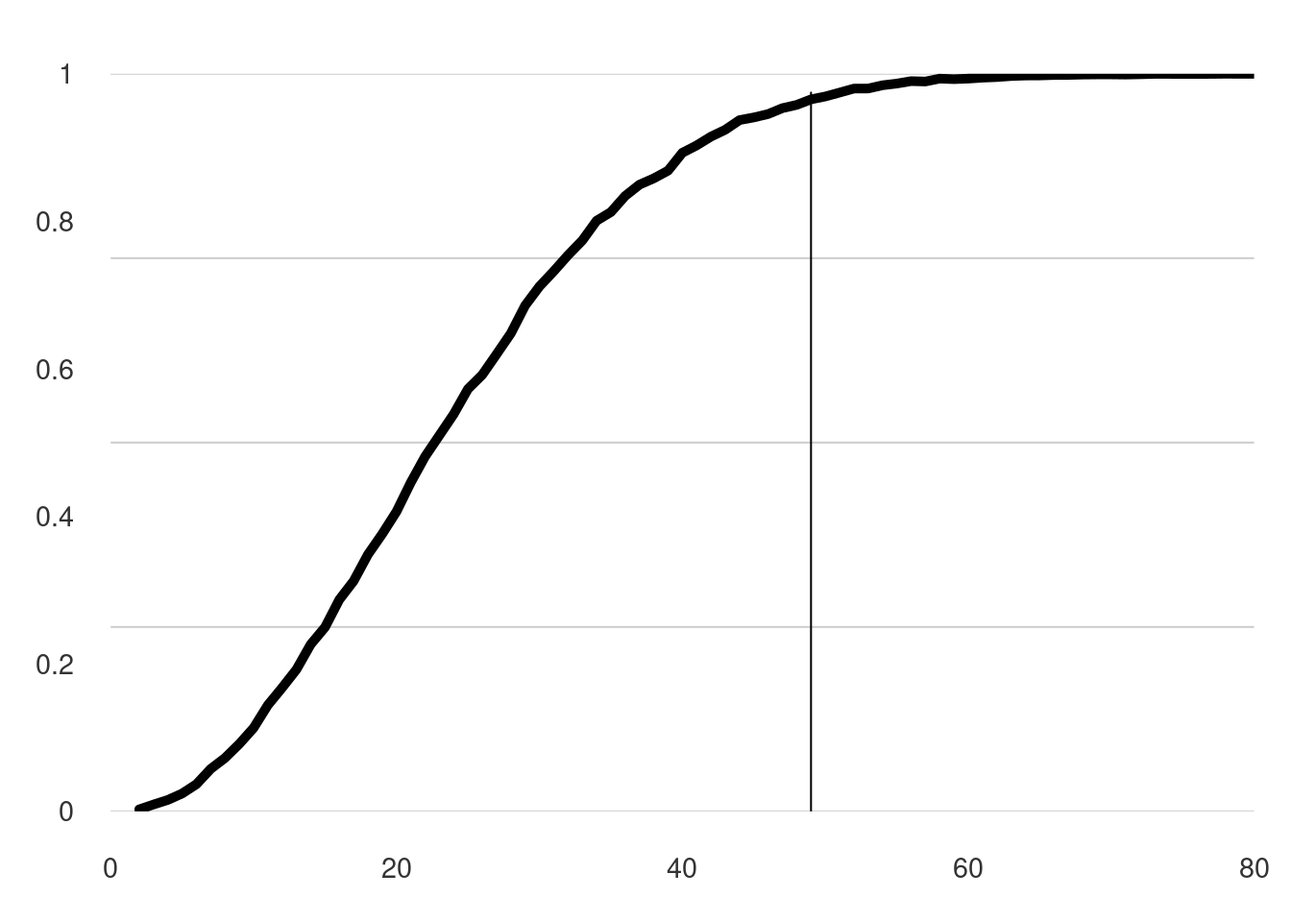
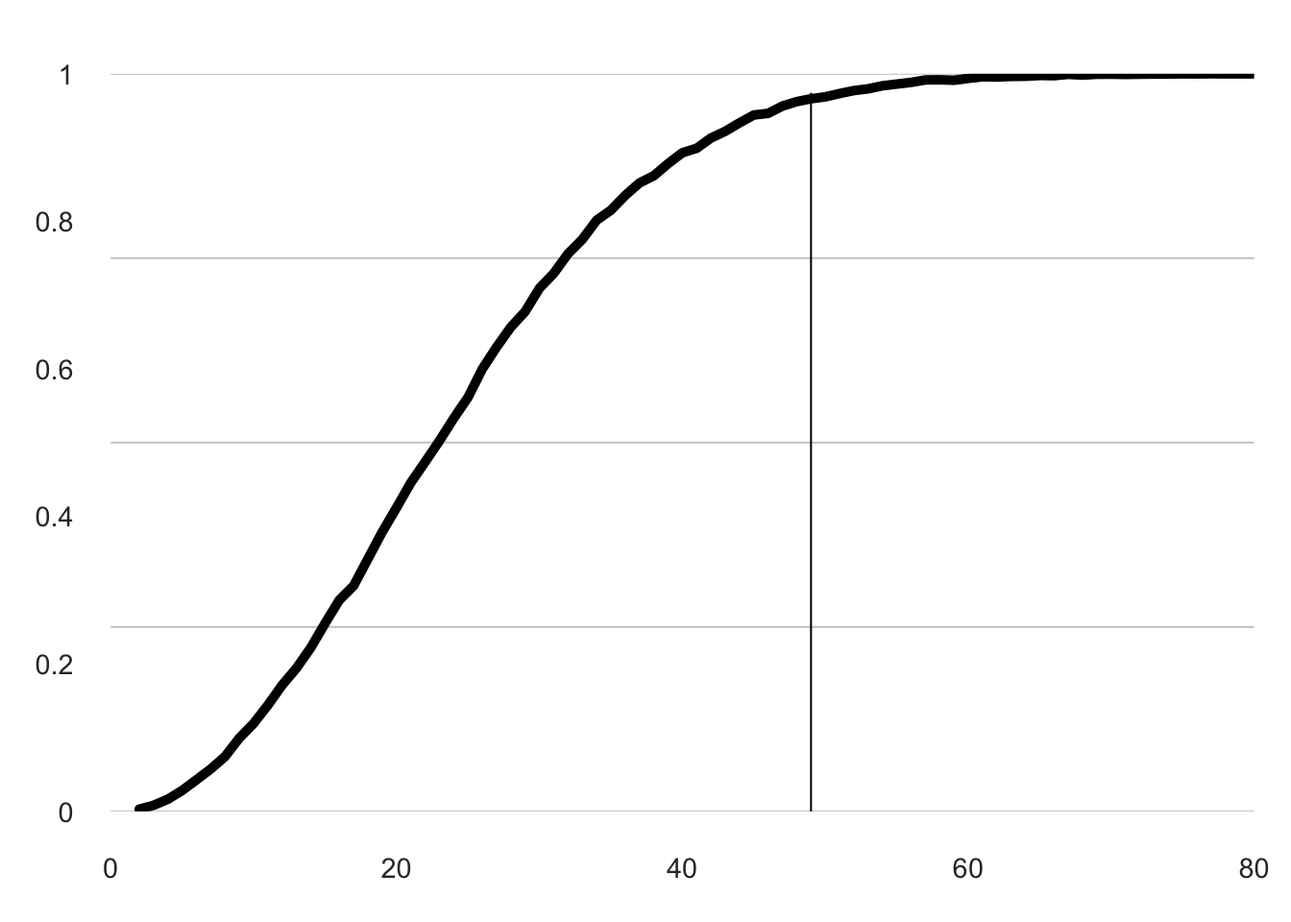
Built site for gh-pages

diff --git a/01_fundamentals/stat_foundations.html b/01_fundamentals/stat_foundations.html
@@ -430,34 +430,9 @@ A word of encouragement
 <p>How far you go back into the abstract foundations? For practical intents and purposes, you won’t need measure theory and proof-based mathematical analysis.</p>
 <p>I find those interesting for their own sake and understanding the foundations of higher-level tools we use. However, I can’t argue it’s an efficient use of your time.</p>
 </div></div><p>The most technical, heavy, and mathematical part is about estimators and their properties, but it is necessary both for hypothesis testing and machine learning. To make it more accessible and intuitive, we will use simulation and visualization during the labs to get an understanding and intuition on how estimators behave. We wrap up the lecture by looking at the statistical process in firms and put it in contrast with the process for ML, predictive systems. Last, but not least, there is one more cautionary tale about multiple testing – which will be our gateway into truly modern statistics.</p>
-<div class="callout-tip callout callout-style-default callout-captioned page-columns page-full">
-<div class="callout-header d-flex align-content-center">
-<div class="callout-icon-container">
-<i class="callout-icon"></i>
-</div>
-<div class="callout-caption-container flex-fill">
-Complementary resources if you feel like starting over
-</div>
-</div>
-<div class="callout-body-container callout-body page-columns page-full">
-<ul>
-<li>Realize that lots of common statistical tests are particular versions of linear models <a href="#fn2" class="footnote-ref" id="fnref2" role="doc-noteref"><sup>2</sup></a>. It takes a few hours to go through the theory and the code in the referenced book.</li>
-<li>Here’s the approach taken by <a href="#fn3" class="footnote-ref" id="fnref3" role="doc-noteref"><sup>3</sup></a>, which integrates data analysis and simulation in learning of statistics.</li>
-<li>Upgrade your statistical thinking for the 21st century challenges and be aware of the pitfalls and problems in the field. A good reference is <a href="#fn4" class="footnote-ref" id="fnref4" role="doc-noteref"><sup>4</sup></a>, which takes multiple perspectives (frequentist, bayesian, causal inference), while going through the workhorse models and methods.</li>
-<li>Be comfortable with exploring, wrangling, visualizing and analyzing data in R or/and Python, get familiar with reproducible research best practices. A good starting point is <a href="#fn5" class="footnote-ref" id="fnref5" role="doc-noteref"><sup>5</sup></a>, which is a course in collaboration with the RStudio team.</li>
-</ul>
-<div class="no-row-height column-margin column-container"><li id="fn2"><p><sup>2</sup>&nbsp;Doogue - <a href="https://steverxd.github.io/Stat_tests/">Common statistical tests are linear models</a></p></li><li id="fn3"><p><sup>3</sup>&nbsp;Speegle, Clair - <a href="https://mathstat.slu.edu/~speegle/_book/preface.html">Probability, Statistics, and Data: A fresh approach using R</a></p></li><li id="fn4"><p><sup>4</sup>&nbsp;Poldrack - <a href="https://statsthinking21.github.io/statsthinking21-core-site/">Statistical Thinking for the 21st Century</a> has two companion books, one with R and another in Python</p></li><li id="fn5"><p><sup>5</sup>&nbsp;Bryan - <a href="https://stat545.com/">STAT 545</a> It is also notable for its focus on teaching using modern R packages, Git and GitHub, its extensive sharing of teaching materials openly online, and its strong emphasis on practical data cleaning, exploration, and visualization skills, rather than algorithms and theory.</p></li></div><p>There are a gazillion books, courses on statistics, which basically do/teach the same thing. For reference and your curiosity, I curated a few which stand out with the right balance of data, code, simulation, theoretical rigor and real-world applications:</p>
-<ul>
-<li>Cetinkaya-Runde, Hardin - <a href="https://openintro-ims.netlify.app/index.html">Introduction to Modern Statistics</a> goes through all the fundamentals in a clear, concrete, extensive way, with code!</li>
-<li>Crump - <a href="https://www.crumplab.com/statistics/">Answering questions with data</a> – introductory statistics for Psychology Students has an interesting approach, focused on the challenges of Psychology</li>
-<li>Thulin - <a href="http://www.modernstatisticswithr.com/">Modern Statistics with R</a> goes through the whole process, with R, with additional topics, normally not present in a statistics course</li>
-<li>Holmes, Huber - <a href="https://www.huber.embl.de/msmb/index.html">Modern Statistics for Modern Biology</a> is for biologists, but we can see how central to the field are multidimensional methods, clustering and high-performance computing, working with big and messy data</li>
-</ul>
-</div>
-</div>
 <section id="the-garden-of-forking-paths" class="level2 page-columns page-full">
 <h2 class="anchored" data-anchor-id="the-garden-of-forking-paths">The garden of forking paths</h2>
-<div class="page-columns page-full"><p>As a warm-up, try working out through the following problem, sometimes called “The Birthday Paradox”.<a href="#fn6" class="footnote-ref" id="fnref6" role="doc-noteref"><sup>6</sup></a> If outcome space, complementarity, <em>sampling with replacement</em>, <em>pigenhole principle</em> or the simulation code you’re seeing seem puzzling, you might benefit from a refresher on probability theory. If you haven’t seen this problem before, you will probably find the results surprising.</p><div class="no-row-height column-margin column-container"><li id="fn6"><p><sup>6</sup>&nbsp;First, an analytical solution on paper, then simulate it in R or Python to check your answer.</p></li></div></div>
+<div class="page-columns page-full"><p>As a warm-up, try working out through the following problem, sometimes called “The Birthday Paradox”.<a href="#fn2" class="footnote-ref" id="fnref2" role="doc-noteref"><sup>2</sup></a> If outcome space, complementarity, <em>sampling with replacement</em>, <em>pigenhole principle</em> or the simulation code you’re seeing seem puzzling, you might benefit from a refresher on probability theory. If you haven’t seen this problem before, you will probably find the results surprising.</p><div class="no-row-height column-margin column-container"><li id="fn2"><p><sup>2</sup>&nbsp;First, an analytical solution on paper, then simulate it in R or Python to check your answer.</p></li></div></div>
 <div class="callout-note callout callout-style-default callout-captioned">
 <div class="callout-header d-flex align-content-center">
 <div class="callout-icon-container">
@@ -470,7 +445,7 @@ The Birthday Problem
 <div class="callout-body-container callout-body">
 <p>What is the probability at least two people have the same birthday, in a room of <span class="math inline">\(n=25\)</span> people? Assuming independence, for example no twins, every day is equally likely and ignoring the problem of 29th February. Can you generalize it to an arbitrary <span class="math inline">\(n\)</span>?</p>
 <p>For most practical problems, simulation is an extremely important skill. We might start with it to quickly get an answer, however, for simpler problems, the process of working out the solution analytically sheds light on its structure and easily generalizes to other applications. This simulation indeed, converges to the true results, but it takes a lot of computation, so it might not work when the code needs to run really fast!</p>
-<div class="cell" data-hash="stat_foundations_cache/html/unnamed-chunk-2_b2e41f9216394932bea3dc39abd913a6">
+<div class="cell" data-hash="stat_foundations_cache/html/unnamed-chunk-4_581a09b83394d0719ece659ea8d16001">
 <div class="sourceCode cell-code" id="cb1"><pre class="sourceCode r code-with-copy"><code class="sourceCode r"><span id="cb1-1"><a href="#cb1-1" aria-hidden="true" tabindex="-1"></a>nr_people <span class="ot">&lt;-</span> <span class="dv">25</span> </span>
 <span id="cb1-2"><a href="#cb1-2" aria-hidden="true" tabindex="-1"></a>simulate_birthdays <span class="ot">&lt;-</span> <span class="cf">function</span>(nr_people, <span class="at">nr_sim =</span> <span class="dv">10000</span>) {</span>
 <span id="cb1-3"><a href="#cb1-3" aria-hidden="true" tabindex="-1"></a>    birthday_events <span class="ot">&lt;-</span> <span class="fu">replicate</span>(<span class="at">n =</span> nr_sim, {</span>
@@ -484,8 +459,8 @@ The Birthday Problem
 </div>
 <!-- <details> <summary>Show the answer</summary> -->
 <!-- </details> -->
-<p>So, the probability that a room of 25 people has two people with the same birth date is <span class="math inline">\(\approx\)</span> 0.577. For 50 people, it’s around 0.9683</p>
-<div class="cell" data-hash="stat_foundations_cache/html/unnamed-chunk-3_1d7df490b35e7402bfb7fe91b4c45dc6">
+<p>So, the probability that a room of 25 people has two people with the same birth date is <span class="math inline">\(\approx\)</span> 0.5655. For 50 people, it’s around 0.9695</p>
+<div class="cell" data-hash="stat_foundations_cache/html/unnamed-chunk-6_6fb70620685be6c0999b14947d82dd0f">
 <details>
 <summary>Show the visualization code</summary>
 <div class="sourceCode cell-code" id="cb2"><pre class="sourceCode r code-with-copy"><code class="sourceCode r"><span id="cb2-1"><a href="#cb2-1" aria-hidden="true" tabindex="-1"></a><span class="fu">par</span>(<span class="at">mar =</span> <span class="fu">c</span>(<span class="dv">3</span>, <span class="dv">3</span>, <span class="dv">2</span>, <span class="dv">1</span>), <span class="co"># Dist' from plot to side of page</span></span>
@@ -518,7 +493,7 @@ The Birthday Problem
 <div class="no-row-height column-margin column-container"><div class="cell-output-display callout-margin-content">
 <div class="quarto-figure quarto-figure-center">
 <figure class="figure">
-<p><img src="stat_foundations_files/figure-html/unnamed-chunk-3-1.png" class="img-fluid figure-img" width="672"></p>
+<p><img src="stat_foundations_files/figure-html/unnamed-chunk-6-1.png" class="img-fluid figure-img" width="672"></p>
 <p></p><figcaption class="figure-caption">Probability of matching birthdays as a function of the number of people</figcaption><p></p>
 </figure>
 </div>
@@ -529,7 +504,7 @@ The Birthday Problem
 </section>
 <section id="the-probability-triple" class="level2 page-columns page-full">
 <h2 class="anchored" data-anchor-id="the-probability-triple">The probability triple</h2>
-<div class="page-columns page-full"><p>In the <a href="../01_fundamentals/background.html#why-did-you-study-all-of-that">previous lecture</a>, I mentioned why did we study probability theory. However, there is one more useful metaphor: remember how important is logic in mathematics, computer science, and philosophy; it’s one of the prerequisites in each of those, an essential tool for reasoning. Then, probability theory is the <strong>logic of uncertainty</strong>, a formal language. <a href="#fn7" class="footnote-ref" id="fnref7" role="doc-noteref"><sup>7</sup></a></p><div class="no-row-height column-margin column-container"><li id="fn7"><p><sup>7</sup>&nbsp;If you studied fuzzy set theory, you might have a case for it being the candidate, however, it fell out of favor in practice – so I would suggest to focus on probability and Bayesian reasoning.</p></li></div></div>
+<div class="page-columns page-full"><p>In the <a href="../01_fundamentals/background.html#why-did-you-study-all-of-that">previous lecture</a>, I mentioned why did we study probability theory. However, there is one more useful metaphor: remember how important is logic in mathematics, computer science, and philosophy; it’s one of the prerequisites in each of those, an essential tool for reasoning. Then, probability theory is the <strong>logic of uncertainty</strong>, a formal language. <a href="#fn3" class="footnote-ref" id="fnref3" role="doc-noteref"><sup>3</sup></a></p><div class="no-row-height column-margin column-container"><li id="fn3"><p><sup>3</sup>&nbsp;If you studied fuzzy set theory, you might have a case for it being the candidate, however, it fell out of favor in practice – so I would suggest to focus on probability and Bayesian reasoning.</p></li></div></div>
 <p>Often, probability and mathematical statistics are bundled together, as they make perfect sense in sequence, but they have different objectives in mind. Probability theory is concerned with the construction of probability triple <span class="math inline">\((\Omega, \mathcal{F}, \mathbb{P})\)</span>.</p>
 <p>That is the foundation for developing useful tools like random variables and probability/cumulative density functions. Then, extending those to joint, conditional probabilities and multidimensional cases, introducing the machinery to operate all of that: like expectation, variance, moment-generating functions, conditioning, marginalization, Bayes theorem. This leads to the laws of large numbers, properties of distributions and their transformations.</p>
 <div class="page-columns page-full"><p></p><div class="no-row-height column-margin column-container"><span class=""><strong>We use all of those results</strong> to model relationships between observed and latent variables in business processes and phenomena. It’s a building block for answering the “simple” question: does X cause Y?</span></div></div>
@@ -559,7 +534,7 @@ P(X=k) = \frac{e^{−\lambda} \lambda^k}{k!}; \space k=0, 1, ...
 </div>
 <p>Other tools are as prevalent and useful: Bayes rule, DAGs (directed acyclic graphs of random variables), the exponential family, laws of large numbers and the cental limit theorem. It holds both in applications and statistics itself.</p>
 <p>In probability theory, we’re still in a mathematical world trying to capture the essence of the real world, but ultimately, we need statistical inference to estimate those parameters from data. Before we get into it in more detail: mathematically, computationally and in terms of business cases, we have to define that foundation – the probability triple.</p>
-<div class="page-columns page-full"><p>To make the following more clear, let’s start with an experiment where we show a customer ten clothing items (a collection), and they have to pick the one they like best. If we repeated it with many customers, preferably representative for the population of interest,<a href="#fn8" class="footnote-ref" id="fnref8" role="doc-noteref"><sup>8</sup></a> a pattern would emerge. This is an example of a discrete Outcome Set (or universal set, of all possible results). Alternatively, think of pebbles in an urn, where each one represents an outcome.</p><div class="no-row-height column-margin column-container"><li id="fn8"><p><sup>8</sup>&nbsp;You might intuitively know what a population is, but there are surprisingly many pitfalls, so we’ll investigate that notion with lots of care.</p></li></div></div>
+<div class="page-columns page-full"><p>To make the following more clear, let’s start with an experiment where we show a customer ten clothing items (a collection), and they have to pick the one they like best. If we repeated it with many customers, preferably representative for the population of interest,<a href="#fn4" class="footnote-ref" id="fnref4" role="doc-noteref"><sup>4</sup></a> a pattern would emerge. This is an example of a discrete Outcome Set (or universal set, of all possible results). Alternatively, think of pebbles in an urn, where each one represents an outcome.</p><div class="no-row-height column-margin column-container"><li id="fn4"><p><sup>4</sup>&nbsp;You might intuitively know what a population is, but there are surprisingly many pitfalls, so we’ll investigate that notion with lots of care.</p></li></div></div>
 <p>As an academic aside, we have to thank Kolmogorov for putting probability into a rigorous, axiomatic framework based on set theory and making it open for mathematical enquiry with tools from mathematical analysis, which by that time were well-established. That is important, because we can’t work the same naive way with continuous measurements and phenomena, as we do with pebbles.</p>
 <ol type="1">
 <li>A <strong>random experiment</strong> (<span class="math inline">\(\mathscr{E}\)</span>) is a set of <em>conditions which are favorable for an event</em> in a given form. It is that real-world process of interest which we try to simplify, with the following properties:
@@ -567,7 +542,7 @@ P(X=k) = \frac{e^{−\lambda} \lambda^k}{k!}; \space k=0, 1, ...
 <li>Possible results and outcomes are known apriori and exhaustably. For example: a coin/dice toss, quantity sold, time in a subscription, a default on the credit, a choice between subscriptions.</li>
 <li>It’s never known which of the results of <span class="math inline">\(\mathscr{E}\)</span> will manifest or appear before we run the experiment, the “experiment” amounting to randomly picking that clothing item or a pebble from the urn.</li>
 <li>Despite that, <strong>there is a perceptible regularity</strong>, which can be eventually measured and quantified, that is, encoding the idea of a probabilistic “law” in the results. That regularity could be a result of the large scale of the phenomena, for example, many customers seeing a product on the shelf.</li>
-<li>Repeatability of the conditions in which the experiment runs, like the comparability and perservation of context. This is optional in the Bayesian perspective, where we’re not thinking in long-run frequency terms. <a href="#fn9" class="footnote-ref" id="fnref9" role="doc-noteref"><sup>9</sup></a></li>
+<li>Repeatability of the conditions in which the experiment runs, like the comparability and perservation of context. This is optional in the Bayesian perspective, where we’re not thinking in long-run frequency terms. <a href="#fn5" class="footnote-ref" id="fnref5" role="doc-noteref"><sup>5</sup></a></li>
 </ul></li>
 <li><strong>Elementary event</strong> as an auxiliaty construction: one of the possible results of <span class="math inline">\(\mathscr{E}\)</span>, usually denoted by <span class="math inline">\(\omega_i \in \Omega\)</span>.</li>
 <li><strong>Universal set</strong> <span class="math inline">\(\Omega = \{ \omega_1, \omega_2, \dots \}\)</span> is also called (Outcome/ State/ Selection space). It suggests the idea of complementarity and stochasticity: we don’t know which <span class="math inline">\(\omega_i\)</span> will manifest, thus is a key object for a further formalization of probability measures.</li>
@@ -575,7 +550,7 @@ P(X=k) = \frac{e^{−\lambda} \lambda^k}{k!}; \space k=0, 1, ...
 <li>The <strong>event space</strong> <span class="math inline">\(\mathcal{F}\)</span> is a sigma-algebra, should be defined on sets of subsets of <span class="math inline">\(\Omega\)</span> and this is where measure theory shines. For technical reasons, we usually can’t define a probability measure on all sets of subsets. On an intuitive note, we define the probability measure on sigma-algebras because if those conditions did not hold, the measure wouldn’t make sense, unions of events would step out of the bounds of event space.</li>
 <li><strong>Probability as an extension of the measure</strong>: chance of events realizing. Note that the perceptible regularity can be thought as the ability to assign a probability (number between 0 and 1) to elementary events: <span class="math inline">\(\mathbb{P}(\omega_i)\)</span>. This is why additivity properties are key, as we care about random events, not only elementary events.</li>
 </ol>
-<div class="no-row-height column-margin column-container"><li id="fn9"><div class="quarto-figure quarto-figure-center"><sup>9</sup>&nbsp;
+<div class="no-row-height column-margin column-container"><li id="fn5"><div class="quarto-figure quarto-figure-center"><sup>5</sup>&nbsp;
 <figure class="figure">
 <p><img src="img/coin-flips-lr.png" class="img-fluid figure-img" style="width:90.0%"></p>
 <p></p><figcaption class="figure-caption"><em>Source: <a href="https://bookdown.org/kevin_davisross/probsim-book/interpretations.html">Ross</a></em> This is the view of probability as a long-run frequency of events occuring, for example, flipping a coin</figcaption><p></p>
@@ -645,7 +620,7 @@ Measure theory rabbit hole: Why not all subsets?
 \end{equation}\]</span></p>
 <p>He then challenges the readers to come up with the expected value <span class="math inline">\(\mathbb{E}[Z^2]\)</span> and asks on what is it defined? It is indeed a hard question.</p>
 </div></div><p>We stumble upon different interpretations of probability (frequentists vs bayesians), when trying to clarify that “perceptible regularity”, despite the mathematics of probability theory being exactly the same. These are not “theorems” to prove, but rather axioms and philosophies often taken in practice as the starting point.</p>
-<div class="page-columns page-full"><p>The frequency theory defines the probability of an outcome as the limiting frequency with which that outcome appears in a long series of similar events. If our experiment or investigation is such that those relative frequencies converge, then we can prove the LLN and the CLT. Basically, that we should view probability and predictions based on historical data. <a href="#fn10" class="footnote-ref" id="fnref10" role="doc-noteref"><sup>10</sup></a></p><div class="no-row-height column-margin column-container"><li id="fn10"><p><sup>10</sup>&nbsp;<em>“To a frequentist, the probability of an event is intrinsic to that event’s nature and not something perceived, only discovered.”</em></p></li></div></div>
+<div class="page-columns page-full"><p>The frequency theory defines the probability of an outcome as the limiting frequency with which that outcome appears in a long series of similar events. If our experiment or investigation is such that those relative frequencies converge, then we can prove the LLN and the CLT. Basically, that we should view probability and predictions based on historical data. <a href="#fn6" class="footnote-ref" id="fnref6" role="doc-noteref"><sup>6</sup></a></p><div class="no-row-height column-margin column-container"><li id="fn6"><p><sup>6</sup>&nbsp;<em>“To a frequentist, the probability of an event is intrinsic to that event’s nature and not something perceived, only discovered.”</em></p></li></div></div>
 <p>Formally, we can represent this statement by Bernoulli’s theorem, which is a special case of Law of Large Numbers, where <span class="math inline">\(m_n\)</span> is the number of times an event <span class="math inline">\(A\)</span> occurs in <span class="math inline">\(n\)</span> trials.</p>
 <p><span class="math display">\[
 \lim_{n \to \infty} \frac{m_n}{n} = p
@@ -742,7 +717,7 @@ $$
 The best way to see the problem here, is to draw the mapping and pick 3 thresholds for $r$. Then see if we can recover events in $\mathcal{F}$ by $X^{-1}(w)$.
 
 ::: -->
-<div class="page-columns page-full"><p>As a motivation of why do we have to understand all of this, when for most practical applications we can get by just fine with using the results and tools from probability, I will introduce two examples: one of compositional data analysis<a href="#fn11" class="footnote-ref" id="fnref11" role="doc-noteref"><sup>11</sup></a> and time series analysis. What I want to say, is that for more “exotic” applications, we might need to tweak that probability triple because of the nature of the problem, which has downstream consequences for all the statistical machinery we use in those applications.</p><div class="no-row-height column-margin column-container"><li id="fn11"><div class="quarto-figure quarto-figure-center"><sup>11</sup>&nbsp;
+<div class="page-columns page-full"><p>As a motivation of why do we have to understand all of this, when for most practical applications we can get by just fine with using the results and tools from probability, I will introduce two examples: one of compositional data analysis<a href="#fn7" class="footnote-ref" id="fnref7" role="doc-noteref"><sup>7</sup></a> and time series analysis. What I want to say, is that for more “exotic” applications, we might need to tweak that probability triple because of the nature of the problem, which has downstream consequences for all the statistical machinery we use in those applications.</p><div class="no-row-height column-margin column-container"><li id="fn7"><div class="quarto-figure quarto-figure-center"><sup>7</sup>&nbsp;
 <figure class="figure">
 <figure class="figure">
 <img src="img/composition.png" title="Simplex" class="img-fluid figure-img" style="width:90.0%">
@@ -766,7 +741,7 @@ The curious case of Compositional Data Analysis
 <p>Compositional data analysis solves those issues by defining a probability triple over the simplex (instead of <span class="math inline">\(\mathbb{R}^n\)</span>): <span class="math inline">\((\mathcal{S}^n, \mathcal{F}, \mathbb{P})\)</span>. This leads to a different definition of the event space <span class="math inline">\(\mathcal{F}\)</span>, which is also a sigma-algebra and a different definition of the probability measure <span class="math inline">\(\mathbb{P}\)</span>.</p>
 </div>
 </div>
-<div class="page-columns page-full"><p>Remember our exaple of <a href="../01_fundamentals/background.html#implicit-learning-intuition-and-bias">pigeon superstition</a> in the context of learning? It is not surprising to me that measure theory becomes important in Learning Theory,<a href="#fn12" class="footnote-ref" id="fnref12" role="doc-noteref"><sup>12</sup></a> which is exactly those carefully formulated principles that will prevent our automated learners to become supersitious.</p><div class="no-row-height column-margin column-container"><li id="fn12"><p><sup>12</sup>&nbsp;Even though most courses from which I studied don’t mention it explicitly (Yaser Abu-Mostafa, Shai Ben-David, Reza Shadmehr), according to Mikio’s Brown <a href="https://www.quora.com/Is-Measure-Theory-relevant-to-Machine-Learning/answer/Mikio-L-Braun?srid=KONR">answer</a> it’s essential in the idea of <strong>uniform convergence</strong> and its bounds, where <em>“you consider the probability of a supremum over an infinite set of functions, but out of the box measure theory only allows for constructions with countably infinite index sets”</em>.</p></li></div></div>
+<div class="page-columns page-full"><p>Remember our exaple of <a href="../01_fundamentals/background.html#implicit-learning-intuition-and-bias">pigeon superstition</a> in the context of learning? It is not surprising to me that measure theory becomes important in Learning Theory,<a href="#fn8" class="footnote-ref" id="fnref8" role="doc-noteref"><sup>8</sup></a> which is exactly those carefully formulated principles that will prevent our automated learners to become supersitious.</p><div class="no-row-height column-margin column-container"><li id="fn8"><p><sup>8</sup>&nbsp;Even though most courses from which I studied don’t mention it explicitly (Yaser Abu-Mostafa, Shai Ben-David, Reza Shadmehr), according to Mikio’s Brown <a href="https://www.quora.com/Is-Measure-Theory-relevant-to-Machine-Learning/answer/Mikio-L-Braun?srid=KONR">answer</a> it’s essential in the idea of <strong>uniform convergence</strong> and its bounds, where <em>“you consider the probability of a supremum over an infinite set of functions, but out of the box measure theory only allows for constructions with countably infinite index sets”</em>.</p></li></div></div>
 <p>For the next example, you don’t have to understand what Gaussian Processes are or are used for. However, later in the course, we will discuss nonparametric methods for hypothesis testing. Their usefulness comes from the fact that we make less distributional assumptions about our population, therefore getting more robust results, in contrast with choosing a wrong model or distribution.</p>
 <p>It’s not that these methods don’t have parameters, but the parametrization varies depending on how much data we have, which makes them very flexible in a wide variety of applications, where we just don’t know what is a reasonable distribution or parametric functional form for the relationship that we model.</p>
 <div class="callout-tip callout callout-style-default callout-captioned page-columns page-full">
@@ -780,7 +755,7 @@ Nonparametrics and Gaussian Processes
 </div>
 <div class="callout-body-container callout-body page-columns page-full">
 <!-- Stochastic Processes, Graphs and Trees -->
-<div class="page-columns page-full"><p>If we’re thinking about a regression from the nonparametric perspective: that is, over a set of abstract functions: <span class="math inline">\(f(x) \in \mathscr{C}^2:X \rightarrow \mathbb{R}\)</span>, <a href="#fn13" class="footnote-ref" id="fnref13" role="doc-noteref"><sup>13</sup></a> we might want to know how a draw of samples from an infinite set of continuous differentiable functions might look like.</p><div class="no-row-height column-margin column-container"><li id="fn13"><div class="quarto-figure quarto-figure-center"><sup>13</sup>&nbsp;
+<div class="page-columns page-full"><p>If we’re thinking about a regression from the nonparametric perspective: that is, over a set of abstract functions: <span class="math inline">\(f(x) \in \mathscr{C}^2:X \rightarrow \mathbb{R}\)</span>, <a href="#fn9" class="footnote-ref" id="fnref9" role="doc-noteref"><sup>9</sup></a> we might want to know how a draw of samples from an infinite set of continuous differentiable functions might look like.</p><div class="no-row-height column-margin column-container"><li id="fn9"><div class="quarto-figure quarto-figure-center"><sup>9</sup>&nbsp;
 <figure class="figure">
 <figure class="figure">
 <img src="img/gp-conditioned.png" title="GP Posterior" class="img-fluid figure-img" style="width:90.0%">
@@ -813,7 +788,7 @@ p(f(x) \, |\left \{ x\right \})=\frac{p(\left \{ x\right \}| \, f) \, \mathbf{p(
 <section id="sources-of-uncertainty" class="level2 page-columns page-full">
 <h2 class="anchored" data-anchor-id="sources-of-uncertainty">Sources of Uncertainty</h2>
 <p>We already raised the issue of <a href="../01_fundamentals/background.html#what-is-ai-data-science-cybernetics-">where does uncertainty come from</a>, mentioning that this question deserves further investigation. In order to do that, we will take an AI, Decision-Making, or Reinforcement Learning perspective, rather than a statistical or econometric one, which will be also very clear later.</p>
-<div class="page-columns page-full"><p>Think of <strong>agents</strong> who act and interact with their environment and have particular objectives or payoffs. Hopefully, they act in an intelligent way to achieve their goals in time. Given a past sequence of observations <span class="math inline">\((x_1, x_2, ..., x_t)\)</span> and knowledge about the environment, the agent has to choose an action that best achieves its objectives in the presence of various sources of uncertainty. <a href="#fn14" class="footnote-ref" id="fnref14" role="doc-noteref"><sup>14</sup></a></p><div class="no-row-height column-margin column-container"><li id="fn14"><p><sup>14</sup>&nbsp;This paragraph is taken from the brilliant, open book <a href="https://algorithmsbook.com/">Algorithms for Decision Making, MIT Press - 2022</a> by M. Kochenderfer, T. Wheeler, and K. Wray</p></li></div></div>
+<div class="page-columns page-full"><p>Think of <strong>agents</strong> who act and interact with their environment and have particular objectives or payoffs. Hopefully, they act in an intelligent way to achieve their goals in time. Given a past sequence of observations <span class="math inline">\((x_1, x_2, ..., x_t)\)</span> and knowledge about the environment, the agent has to choose an action that best achieves its objectives in the presence of various sources of uncertainty. <a href="#fn10" class="footnote-ref" id="fnref10" role="doc-noteref"><sup>10</sup></a></p><div class="no-row-height column-margin column-container"><li id="fn10"><p><sup>10</sup>&nbsp;This paragraph is taken from the brilliant, open book <a href="https://algorithmsbook.com/">Algorithms for Decision Making, MIT Press - 2022</a> by M. Kochenderfer, T. Wheeler, and K. Wray</p></li></div></div>
 <div class="cell">
 <div class="cell-output-display">
 <div id="fig-mermaid" class="quarto-figure quarto-figure-center anchored">
